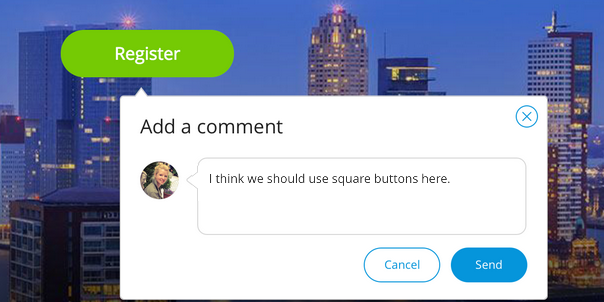
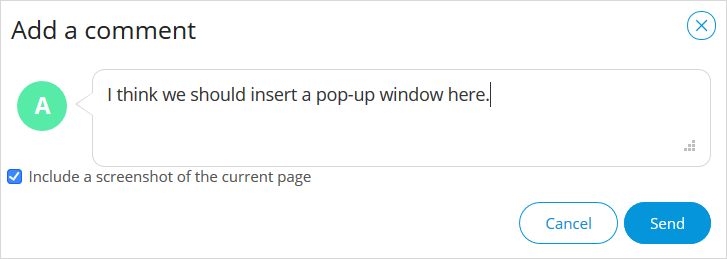
Update for community release

diff --git a/content/developerportal/howto/use-collaboration-widget.md b/content/developerportal/howto/use-collaboration-widget.md
@@ -33,7 +33,7 @@ Once you are in feedback mode, you can click anywhere on the screen to leave a c
 
 ![](attachments/collab-widget/add-comment.png)
 
-And voila! Your feedback will go straight to the [Feedback](../collaborate/feedback) page of your app project in the Developer Portal. For more information, see the [Reviewing Feedback in the Developer Portal](gathering-user-feedback#reviewing) section of *How to Use the Mendix Feedback Widget*.
+And voila! A screenshot is created automatically of the current page, which you can choose to attach to your feedback. After clicking **Send**, your feedback will go straight to the [Feedback](../collaborate/feedback) page of your app project in the Developer Portal. For more information, see the [Reviewing Feedback in the Developer Portal](gathering-user-feedback#reviewing) section of *How to Use the Mendix Feedback Widget*.
 
 ## 4 Editing
 
@@ -60,26 +60,8 @@ You can add as many email addresses as you like and email your app to colleagues
 
 ## 7 Configuring the Collaboration Widget
 
-**[CAN CONFIGURE WIDGET IN YOUR APP PROJECT]**
+You can configure the widget for certain actions in your app project (for example, to allow screenshots, to hide the Mendix logo, and to hide the **Share** button. All the properties are explained in the properties dialog box for the widget:
 
+**[UPDATE SCREENSHOT]**
 
-
-
-
-Data source: same as 
-
-Project: 
-
--App ID
-
-Advanced Configiuraion
-
--these are here so you can configure them if you want, but you should not have to 
-
-Production
-
--running production, dont want mobile view or edit, doesn't make sense
-
--can switch normal share button off and on in production
-
-Call it with Feedback & Collaboration Widget?
+![](attachments/collab-widget/widget-properties.png)
